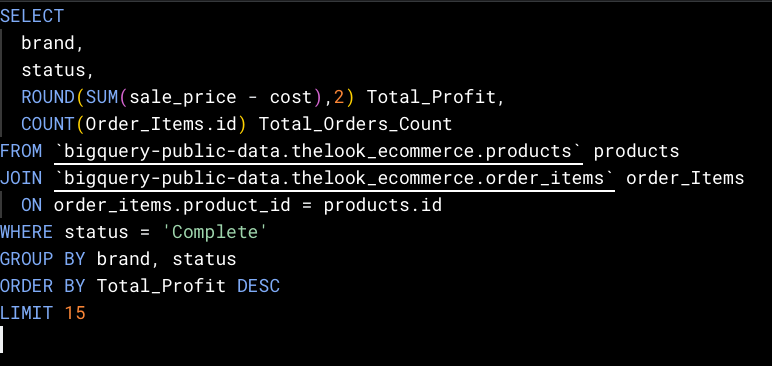
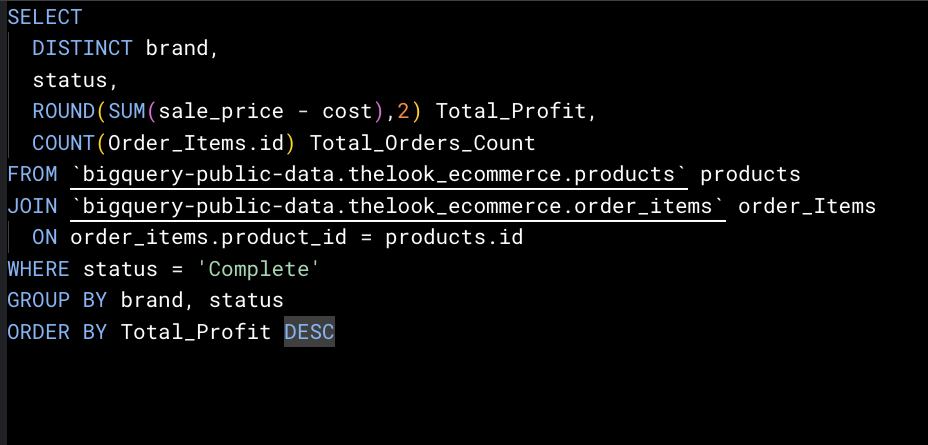
Update SQL queries and added screenshots.

Changed region(s): [[0.0, 0.0, 0.9637, 1.0]]

diff --git a/streamlit_bq.py b/streamlit_bq.py
@@ -10,8 +10,6 @@ client = bigquery.Client(credentials=credentials)
 # st.set_page_config(layout="wide")
 @st.cache_data(ttl=600)
 
-
-
 def run_query(query):
     query_job = client.query(query)
     rows_raw = query_job.result()
@@ -32,7 +30,7 @@ q1.subheader(body="""
 """, anchor=False)
 
 q1_query = run_query("""
-                    SELECT category, ROUND(SUM(sale_price), 2) AS Total_Revenue
+                    SELECT category, FORMAT("%'.2f", ROUND(SUM(sale_price), 2)) AS Total_Revenue
 
 FROM `bigquery-public-data.thelook_ecommerce.products` AS Products_table
 INNER JOIN `bigquery-public-data.thelook_ecommerce.order_items` AS Order_Items_table 
@@ -42,6 +40,7 @@ WHERE order_items_table.status = 'Complete'
 GROUP BY category
 ORDER BY Total_Revenue DESC
                      """ )
+
 q1_query_df = pd.DataFrame(q1_query)
 st.image("q1_sql.png", caption='Q1 - SQL Query Results')
 st.divider(width='stretch')
@@ -113,7 +112,7 @@ q3_query = run_query("""
                      SELECT 
 EXTRACT(YEAR FROM created_at) YEAR, 
 EXTRACT(MONTH FROM created_at) MONTH, 
-SUM(order_id) order_count,
+FORMAT("%'.2d",SUM(order_id)) order_count,
 FROM `bigquery-public-data.thelook_ecommerce.order_items` Order_Items
 WHERE EXTRACT(YEAR FROM created_at) > 2022
 GROUP BY YEAR, MONTH
@@ -140,7 +139,7 @@ st.image('Q4_sql.png', caption='Q4 - SQL Query Results')
 
 q4_query = run_query("""
                      SELECT DC.name DC_CITY,
-COUNT(INV.id) Total_Units 
+FORMAT("%'.2d",COUNT(INV.id)) Total_Units 
 FROM `bigquery-public-data.thelook_ecommerce.distribution_centers` DC 
 JOIN `bigquery-public-data.thelook_ecommerce.inventory_items` INV 
 ON INV.product_distribution_center_id = DC.id --both integers
@@ -200,7 +199,7 @@ q6_Aggrid_return = AgGrid(q6_df)
 
 
 Q7 =  st.container(width='stretch', height='content', autoscroll=False, border=True)
-Q7.header('High-Value Completed Orders')
+Q7.header('Q7: High-Value Completed Orders')
               
 Q7.subheader(body='''Find all individual order line items where the sale_price was greater than $150 and the status is 'Complete'. Join to products to include the product name and category. Show order_id, product name, category, sale_price, and the date the order was created (just the date, not the timestamp). Sort by sale_price descending.
 
@@ -298,5 +297,28 @@ Q10.subheader(body = '''For each distribution center, calculate the total revenu
       💡 Tip: This is a multi-table join. Sketch out which key connects each pair of tables before writing the query. Build and test one JOIN at a time.
 
 ''')
+Q10_query = run_query("""
+                      SELECT DC.name, FORMAT("%'.2f", SUM(INV.COST)) TOTAL_COST, 
+                      FORMAT("%'.2f", SUM(O.sale_price)) TOTAL_REVENUE, 
+                      FORMAT("%'.2f", SUM(O.sale_price - INV.cost)) GROSS_PROFIT
 
+FROM `bigquery-public-data.thelook_ecommerce.inventory_items` INV
+JOIN `bigquery-public-data.thelook_ecommerce.distribution_centers` DC
+ON INV.product_distribution_center_id = DC.id
+
+JOIN `bigquery-public-data.thelook_ecommerce.order_items` O 
+ON INV.product_distribution_center_id = O.id
+GROUP BY DC.name
+ORDER BY SUM(O.sale_price - INV.cost) DESC
+                      """)
+q10_df = pd.DataFrame(Q10_query)
+q10_df.rename(columns={
+    'name': 'DIST CTR - CITY',
+    'GROSS_PROFIT': 'GROSS_PROFIT - DESC'
+}, inplace=True)
+st.dataframe(q10_df)
+st.image('Q10_SQL.png', caption='Q10 - SQL Query Result')
+st.image('Q10_TotalCost.png', caption='Q10 - Total Cost Verification')
+st.write('As a test, I verified that the total cost of inventory sold for all distribution centers was comparable to the GROUP BY cost by each distribution center that I tallied individually. ')
 st.divider(width='stretch')
+
